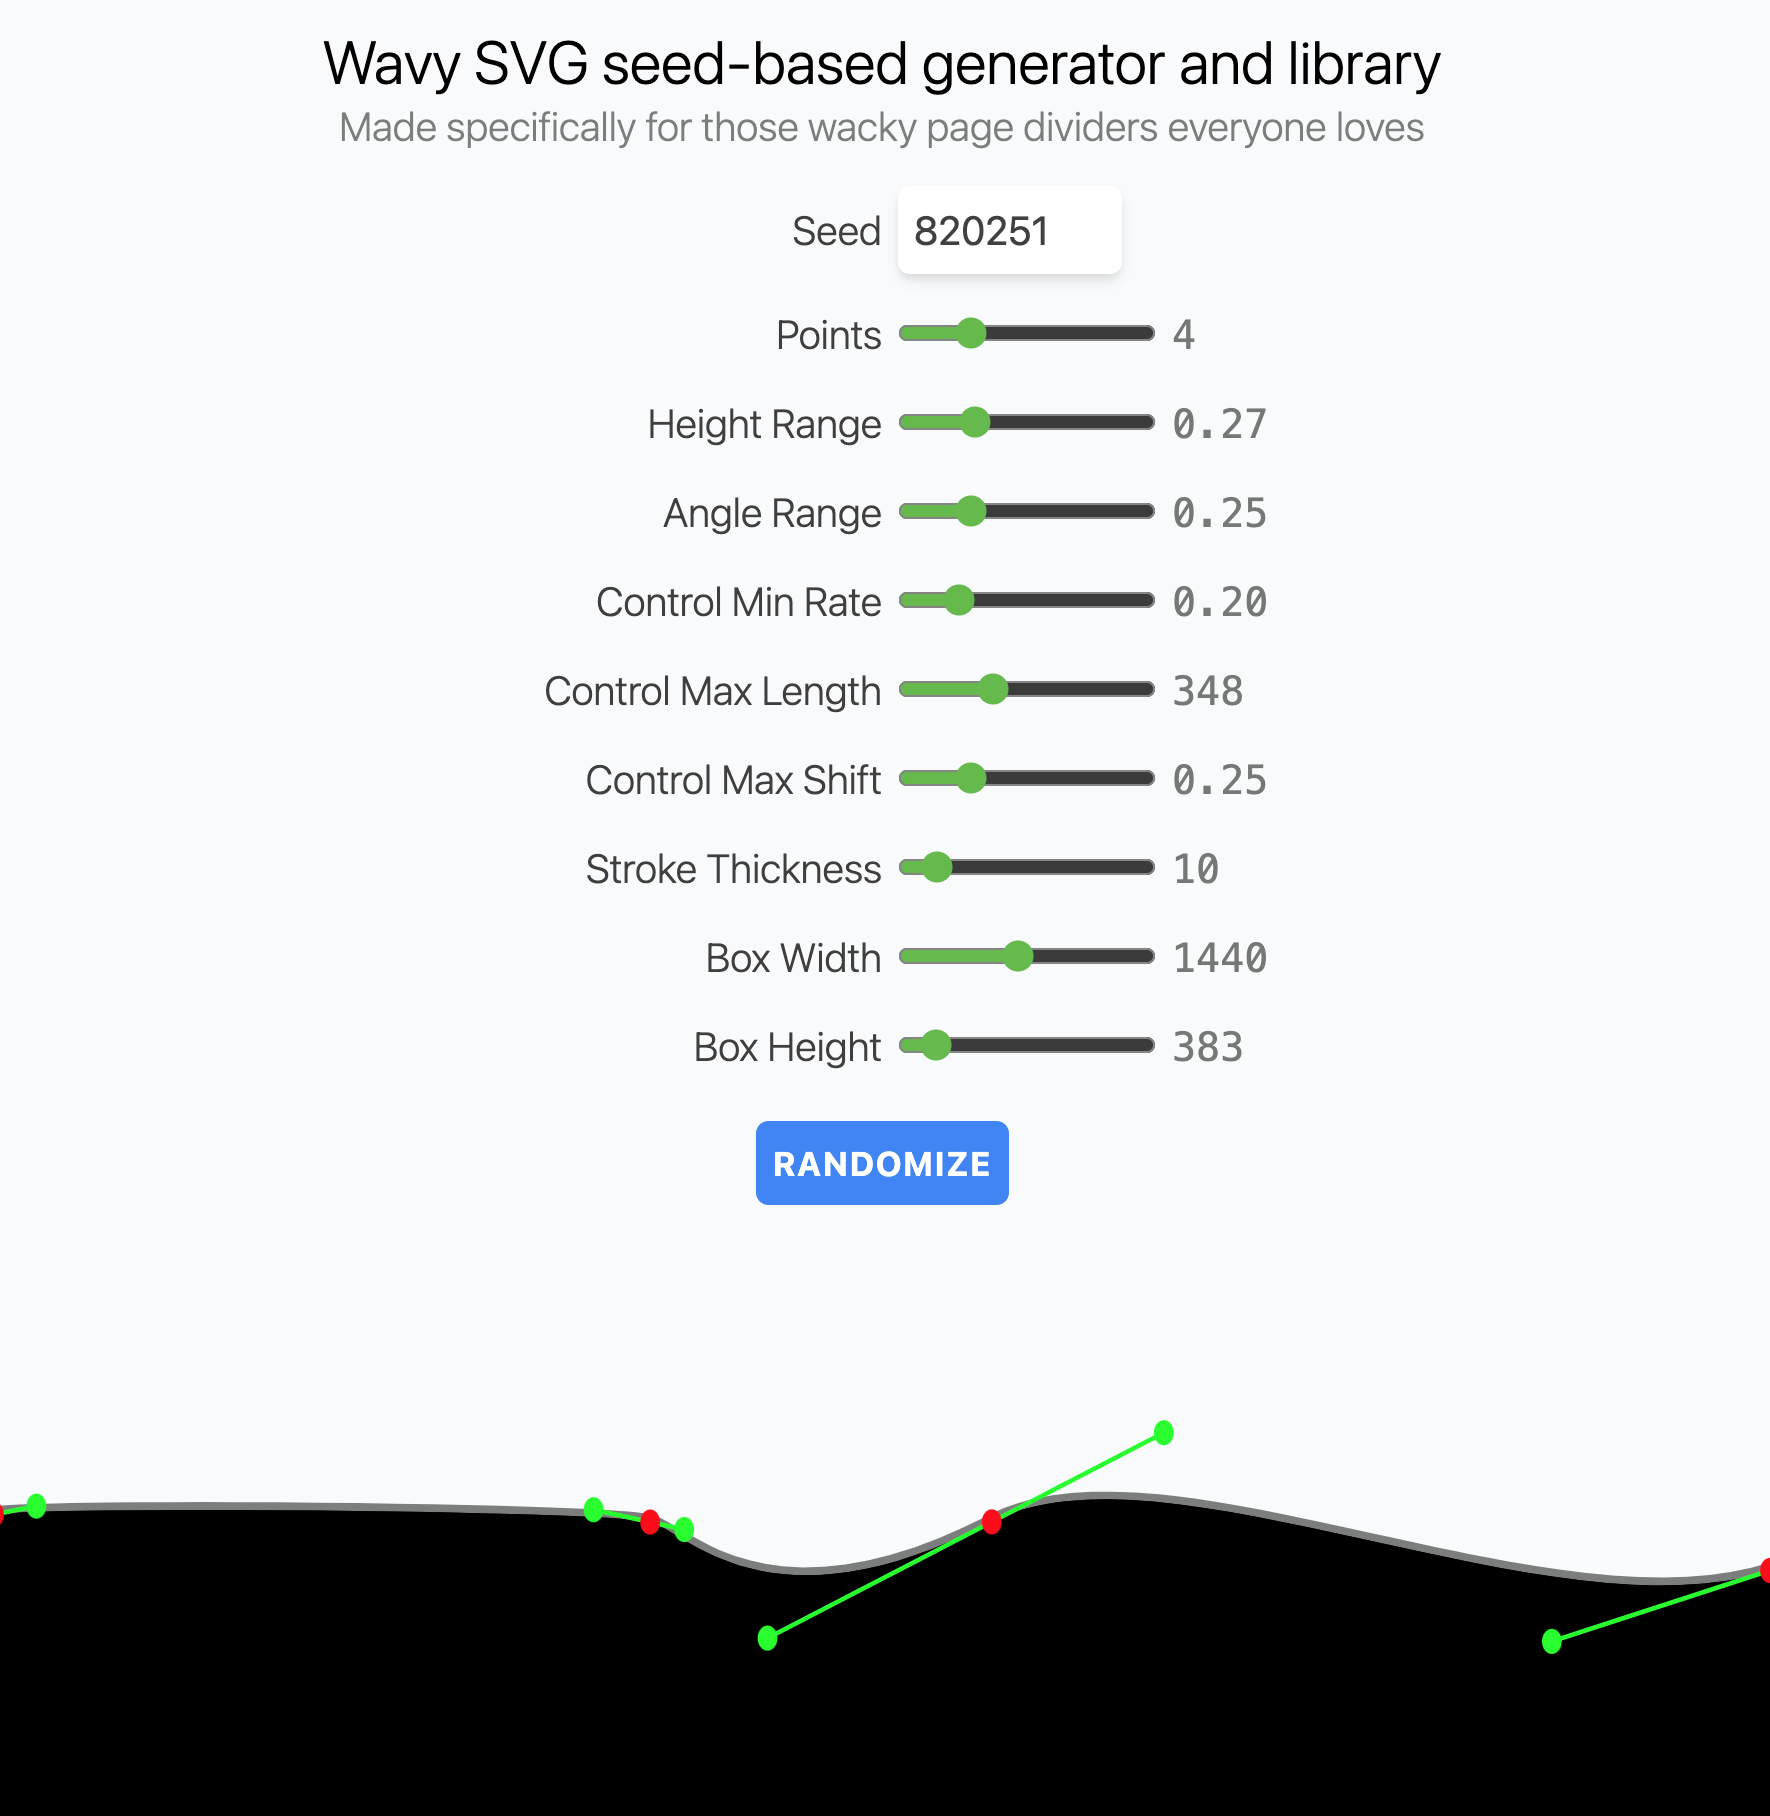
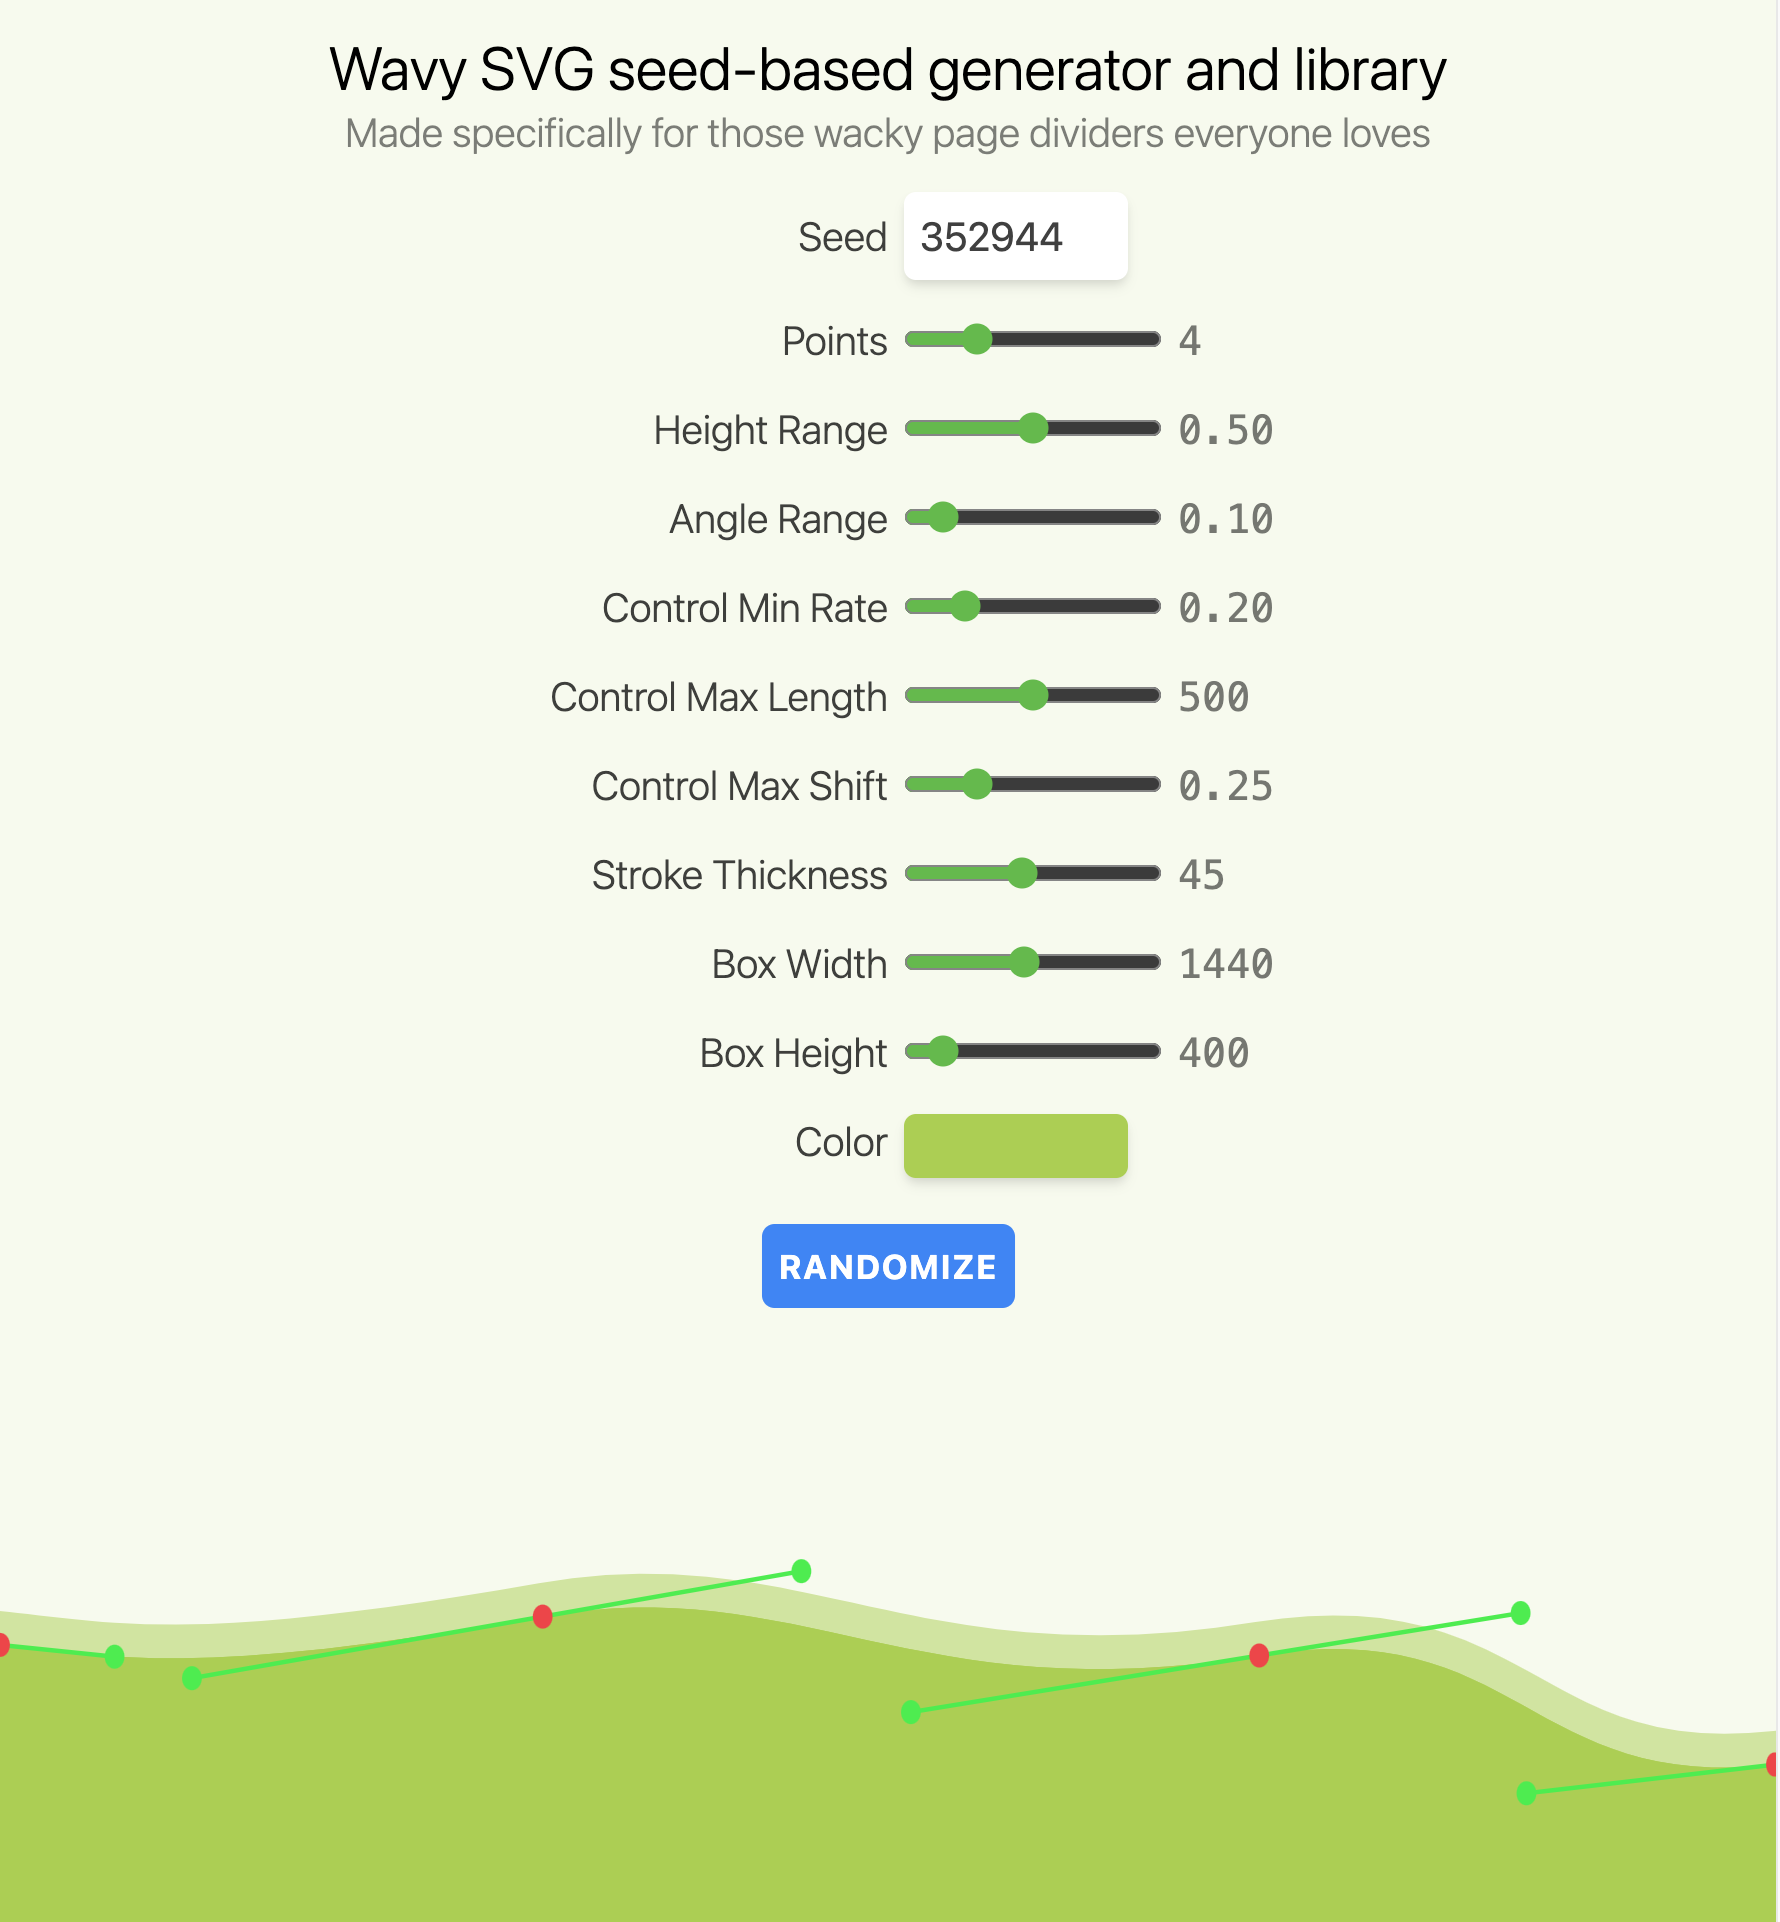
Consolidated external imports; and added color picker

Changed region(s): [[0.1864, 0.0, 0.8079, 0.6784], [0.0, 0.7709, 1.0, 1.0]]

diff --git a/app.js b/app.js
@@ -1,14 +1,4 @@
-import { h, render } from "https://esm.sh/preact";
-import { useState, useEffect } from "https://esm.sh/preact/hooks";
-import htm from "https://esm.sh/htm";
-import { tw, setup } from "https://cdn.skypack.dev/twind";
-const html = htm.bind(h);
-
-setup({
-  variants: {
-    hocus: ["&:hover", "&:focus"],
-  },
-});
+import { html, tw, render, useState, useEffect, chroma } from "./external.js";
 
 import { wavySvg } from "./wavySvg.js";
 
@@ -28,6 +18,9 @@ function App(props) {
   const [strokeThickness, setStrokeThickness] = useState(10);
   const [heightRange, setHeightRange] = useState(0.5);
   const [wavy, setWavy] = useState(() => buildWavy());
+  const [color, setColor] = useState(chroma("rgb(171, 207, 74)"));
+
+  console.log(color);
 
   useEffect(() => {
     setWavy(buildWavy());
@@ -66,7 +59,7 @@ function App(props) {
     elements = elements.concat(
       wavy
         .debugControlPoints()
-        .map(([x, y]) => html`<circle cx="${x}" cy="${y}" r="8" fill="#0F0" />`)
+        .map(([x, y]) => html`<circle cx="${x}" cy="${y}" r="8" fill="#4e4" />`)
     );
     elements = elements.concat(
       wavy
@@ -79,21 +72,24 @@ function App(props) {
               x2="${x2}"
               y2="${y2}"
               stroke-width="3"
-              stroke="#0F0"
+              stroke="#4e4"
             />`
         )
     );
     elements = elements.concat(
       wavy
         .debugPoints()
-        .map(([x, y]) => html`<circle cx="${x}" cy="${y}" r="8" fill="#F00" />`)
+        .map(([x, y]) => html`<circle cx="${x}" cy="${y}" r="8" fill="#e44" />`)
     );
 
     return elements;
   }
 
   return html`
-    <div class=${tw`font(sans light) pt-4 bg-gray-50`}>
+    <div
+      class=${tw`font(sans light) pt-4 bg-gray-50`}
+      style=${{ background: color.alpha(0.1) }}
+    >
       <h1 class=${tw`text(3xl center)`}>
         Wavy SVG seed-based generator and library
       </h1>
@@ -105,7 +101,7 @@ function App(props) {
           "Seed",
           html`
             <input
-              class=${tw`rounded-md p-2 mx-2 shadow-md w-28`}
+              class=${tw`rounded-md p-2 ml-2 shadow-md w-28`}
               type="number"
               value=${seed}
               onInput=${(e) => setSeed(parseInt(e.target.value))}
@@ -171,6 +167,22 @@ function App(props) {
           value: HH,
           onInput: setHH,
         })}
+        ${InputContainer(
+          "Color",
+          html`
+            <label
+              style=${{ background: color }}
+              class=${tw`relative inline-block bg-white p-1 rounded-md shadow-md w-28 ml-2 h-8 align-middle`}
+            >
+              <input
+                class=${tw`absolute inset-0 opacity-0`}
+                type="color"
+                value=${color}
+                onInput=${(e) => setColor(chroma(e.target.value))}
+              />
+            </label>
+          `
+        )}
 
         <button
           class=${tw`p-2 m-2 bg-blue-400 text-white rounded-md uppercase tracking-wider font-bold transition focus:outline-none hocus:bg-blue-500 hocus:scale-105 active:scale-95`}
@@ -190,24 +202,26 @@ function App(props) {
           d: path("${wavy.strokePath}");
         }
       </style>
-      <svg
-        xmlns="http://www.w3.org/2000/svg"
-        viewBox="0 0 ${WW} ${HH}"
-        preserveAspectRatio="none"
-        fill="currentColor"
-      >
-        ${strokeThickness > 0
-          ? html`<path
-              stroke-opacity="0.5"
-              class="strokePath"
-              d=""
-              stroke-width=${strokeThickness}
-              stroke="currentColor"
-            ></path>`
-          : null}
-        <path class="fillPath" d=""></path>
-        ${renderDebugElements()}
-      </svg>
+      <div style="${{ color }}">
+        <svg
+          xmlns="http://www.w3.org/2000/svg"
+          viewBox="0 0 ${wavy.config.boxW} ${wavy.config.boxH}"
+          preserveAspectRatio="none"
+          fill="currentColor"
+        >
+          ${strokeThickness > 0
+            ? html`<path
+                stroke-opacity="0.5"
+                class="strokePath"
+                d=""
+                stroke-width=${strokeThickness}
+                stroke="currentColor"
+              ></path>`
+            : null}
+          <path class="fillPath" d=""></path>
+          ${renderDebugElements()}
+        </svg>
+      </div>
       <code class=${tw`bg-gray-200 p-2 block whitespace-pre-wrap`}
         >${plainTextSvg()}</code
       >

diff --git a/wavySvg.js b/wavySvg.js
@@ -1,4 +1,4 @@
-import { prng_alea } from "//cdn.jsdelivr.net/npm/esm-seedrandom/esm/index.min.mjs";
+import { prng_alea } from "./external.js";
 import SvgPath from "./svgPath.js";
 
 let r = () => Math.random();
@@ -60,17 +60,18 @@ export function randomPoints(WW, HH, points, { heightRange = 0.5 }) {
   return pointsX.map((x) => ({ x, y: randHeight(HH, heightRange) }));
 }
 
-export function wavySvg({
-  seed,
-  boxW,
-  boxH,
-  points,
-  angleRange,
-  controlMinRate,
-  controlMaxLen,
-  controlMaxShift,
-  heightRange,
-}) {
+export function wavySvg(config) {
+  const {
+    seed,
+    boxW,
+    boxH,
+    points,
+    angleRange,
+    controlMinRate,
+    controlMaxLen,
+    controlMaxShift,
+    heightRange,
+  } = config;
   const fillPath = new SvgPath();
 
   resetSeed(seed);
@@ -105,6 +106,7 @@ export function wavySvg({
   fillPath.end();
 
   const result = {
+    config,
     fillPath: fillPath.result(),
     strokePath: strokePath.result(),
     debugPoints: () => {

diff --git a/external.js b/external.js
@@ -1,0 +1,16 @@
+import { h, render } from "//esm.sh/preact";
+import { useState, useEffect } from "//esm.sh/preact/hooks";
+import htm from "//esm.sh/htm";
+import { tw, setup } from "//cdn.skypack.dev/twind";
+import chroma from "//esm.sh/chroma-js";
+import { prng_alea } from "//cdn.jsdelivr.net/npm/esm-seedrandom/esm/index.min.mjs";
+
+setup({
+  variants: {
+    hocus: ["&:hover", "&:focus"],
+  },
+});
+
+const html = htm.bind(h);
+
+export { html, render, useState, useEffect, tw, chroma, prng_alea };
